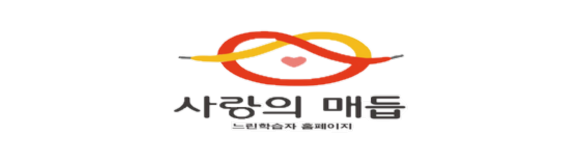
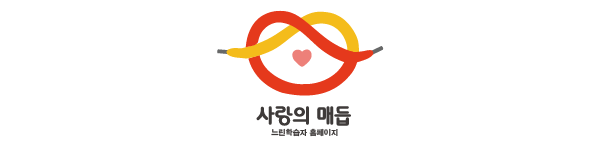
feat.reference_room

Changed region(s): [[0.2779, 0.0533, 0.7101, 0.9067]]

diff --git a/controller/referenceController.js b/controller/referenceController.js
@@ -1,0 +1,54 @@
+// controller/referenceController.js
+
+const Reference = require('../models/reference.js')
+
+// ** 게시판 페이징 알고리즘 함수 **
+
+const hasPrev = (startPage) => {
+    return (startPage == 1) ? false : true;
+}
+
+const hasNext = (endPage, totalPages) => {
+    return (endPage == totalPages) ? false : true;
+}
+
+const getTotalPages = (totalPost, postPerPage) => {
+    return parseInt((totalPost - 1) / postPerPage) + 1;
+}
+
+const getStartPage = (currentPage, displayPageNum) => {
+    return parseInt((currentPage - 1) / displayPageNum) * displayPageNum + 1;
+}
+
+const getEndPage = (currentPage, displayPageNum, totalPages) => {
+    let endPage = (parseInt((currentPage - 1) / displayPageNum) + 1) * displayPageNum;
+
+    if (totalPages < endPage) endPage = totalPages;
+    return endPage;
+}
+
+
+module.exports = {
+    index: async (req, res) => {
+
+        const page = parseInt(req.query.page) || 1;
+        const postPerPage = 5;
+        const displayPageNum = 10;
+
+        const totalPosts = await Reference.countAll();
+
+        const totalPages = getTotalPages(totalPosts[0].total, postPerPage);
+        const startPage = getStartPage(page, displayPageNum);
+        const endPage = getEndPage(page, displayPageNum, totalPages);
+
+        const prev = hasPrev(startPage);
+        const next = hasNext(endPage, totalPages);
+
+        const offset = (page - 1) * postPerPage;
+
+        const data = [offset, postPerPage];
+        const indexPosts = await Reference.findByPage(data);
+
+        res.render('reference/index', { indexPosts, prev, next, startPage, endPage, currentPage: page });
+    }
+}

diff --git a/models/reference.js b/models/reference.js
@@ -1,0 +1,32 @@
+// models/reference.js
+
+const mysql = require('../config/mysql');
+let Reference = function () { console.log('create')};
+
+Reference.findByPage = function (data) {
+    const sql = `SELECT tag, title, agency, link, date_format(date, '%Y-%m-%d') AS date FROM reference LIMIT ?,? `;
+    return mysql.promise().query(sql, data)
+        .then(rows => {
+            if (rows.length > 0) {
+                return rows[0];
+            }
+            else {
+                return null;
+            }
+        })
+}
+
+Reference.countAll = function () {
+    const sql = `SELECT COUNT(*) AS total FROM reference`;
+    return mysql.promise().query(sql)
+        .then(rows => {
+            if (rows.length > 0) {
+                return rows[0];
+            }
+            else {
+                return null;
+            }
+        })
+}
+
+module.exports = Reference;

diff --git a/index.js b/index.js
@@ -54,7 +54,9 @@ const boardRouter = require('./routes/boardRoutes');
 const testRouter = require('./routes/testRoutes');
 const qnaRouter = require('./routes/qnaRoutes');
 const profileRouter = require('./routes/profileRoutes');
+const referenceRouter = require('./routes/referenceRoutes');
 const userController = require('./controller/userController');
+
 
 // 모델 추가 
 
@@ -75,6 +77,9 @@ app.use('/qna', qnaRouter);
 app.use('/test', testRouter);
 // ** 프로필 라우트 **
 app.use('/profile', profileRouter);
+// ** 자료실 라우트 ** 
+app.use('/reference', referenceRouter);
+
 
 app.get('/introduce', (req, res) => {
     res.locals.introduce = true;

diff --git a/public/css/introduce.css b/public/css/introduce.css
@@ -8,12 +8,15 @@
   font-family: "SDMiSaeng", sans-serif; /*웹 폰트 지정*/
   font-size: 23px;
 }
+#logo {
+  height: 100%;
+}
 
 #logo a {
   display: block;
-  width: 195px;
-  height: 100%;
-  background: url(/image/로고.png) no-repeat left top;
+  width: 270px;
+  height: 60px;
+  background: url('/image/로고.png') no-repeat left top;
   background-size: 100%;
   text-indent: -9999px;
   margin-right: -30px;

diff --git a/routes/referenceRoutes.js b/routes/referenceRoutes.js
@@ -1,0 +1,9 @@
+// routes/referenceRoutes.js
+
+const express = require('express');
+const router = express.Router({ mergeParams: true });
+const referenceController = require('../controller/referenceController');
+
+router.get('/', referenceController.index);
+
+module.exports = router; 

diff --git a/public/css/sv_capston.css b/public/css/sv_capston.css
@@ -14,8 +14,8 @@ footer {
 
 #logo a {
   display: block;
-  width: 195px;
-  height: 100%;
+  width: 270px;
+  height: 60px;
   background: url('/image/로고.png') no-repeat left top;
   background-size: 100%;
   text-indent: -9999px;

diff --git a/models/board.js b/models/board.js
@@ -3,7 +3,6 @@
 const mysql = require('../config/mysql');
 const moment = require('moment');
 
-
 require('moment-timezone');
 moment.tz.setDefault("Asia/Seoul");
 
